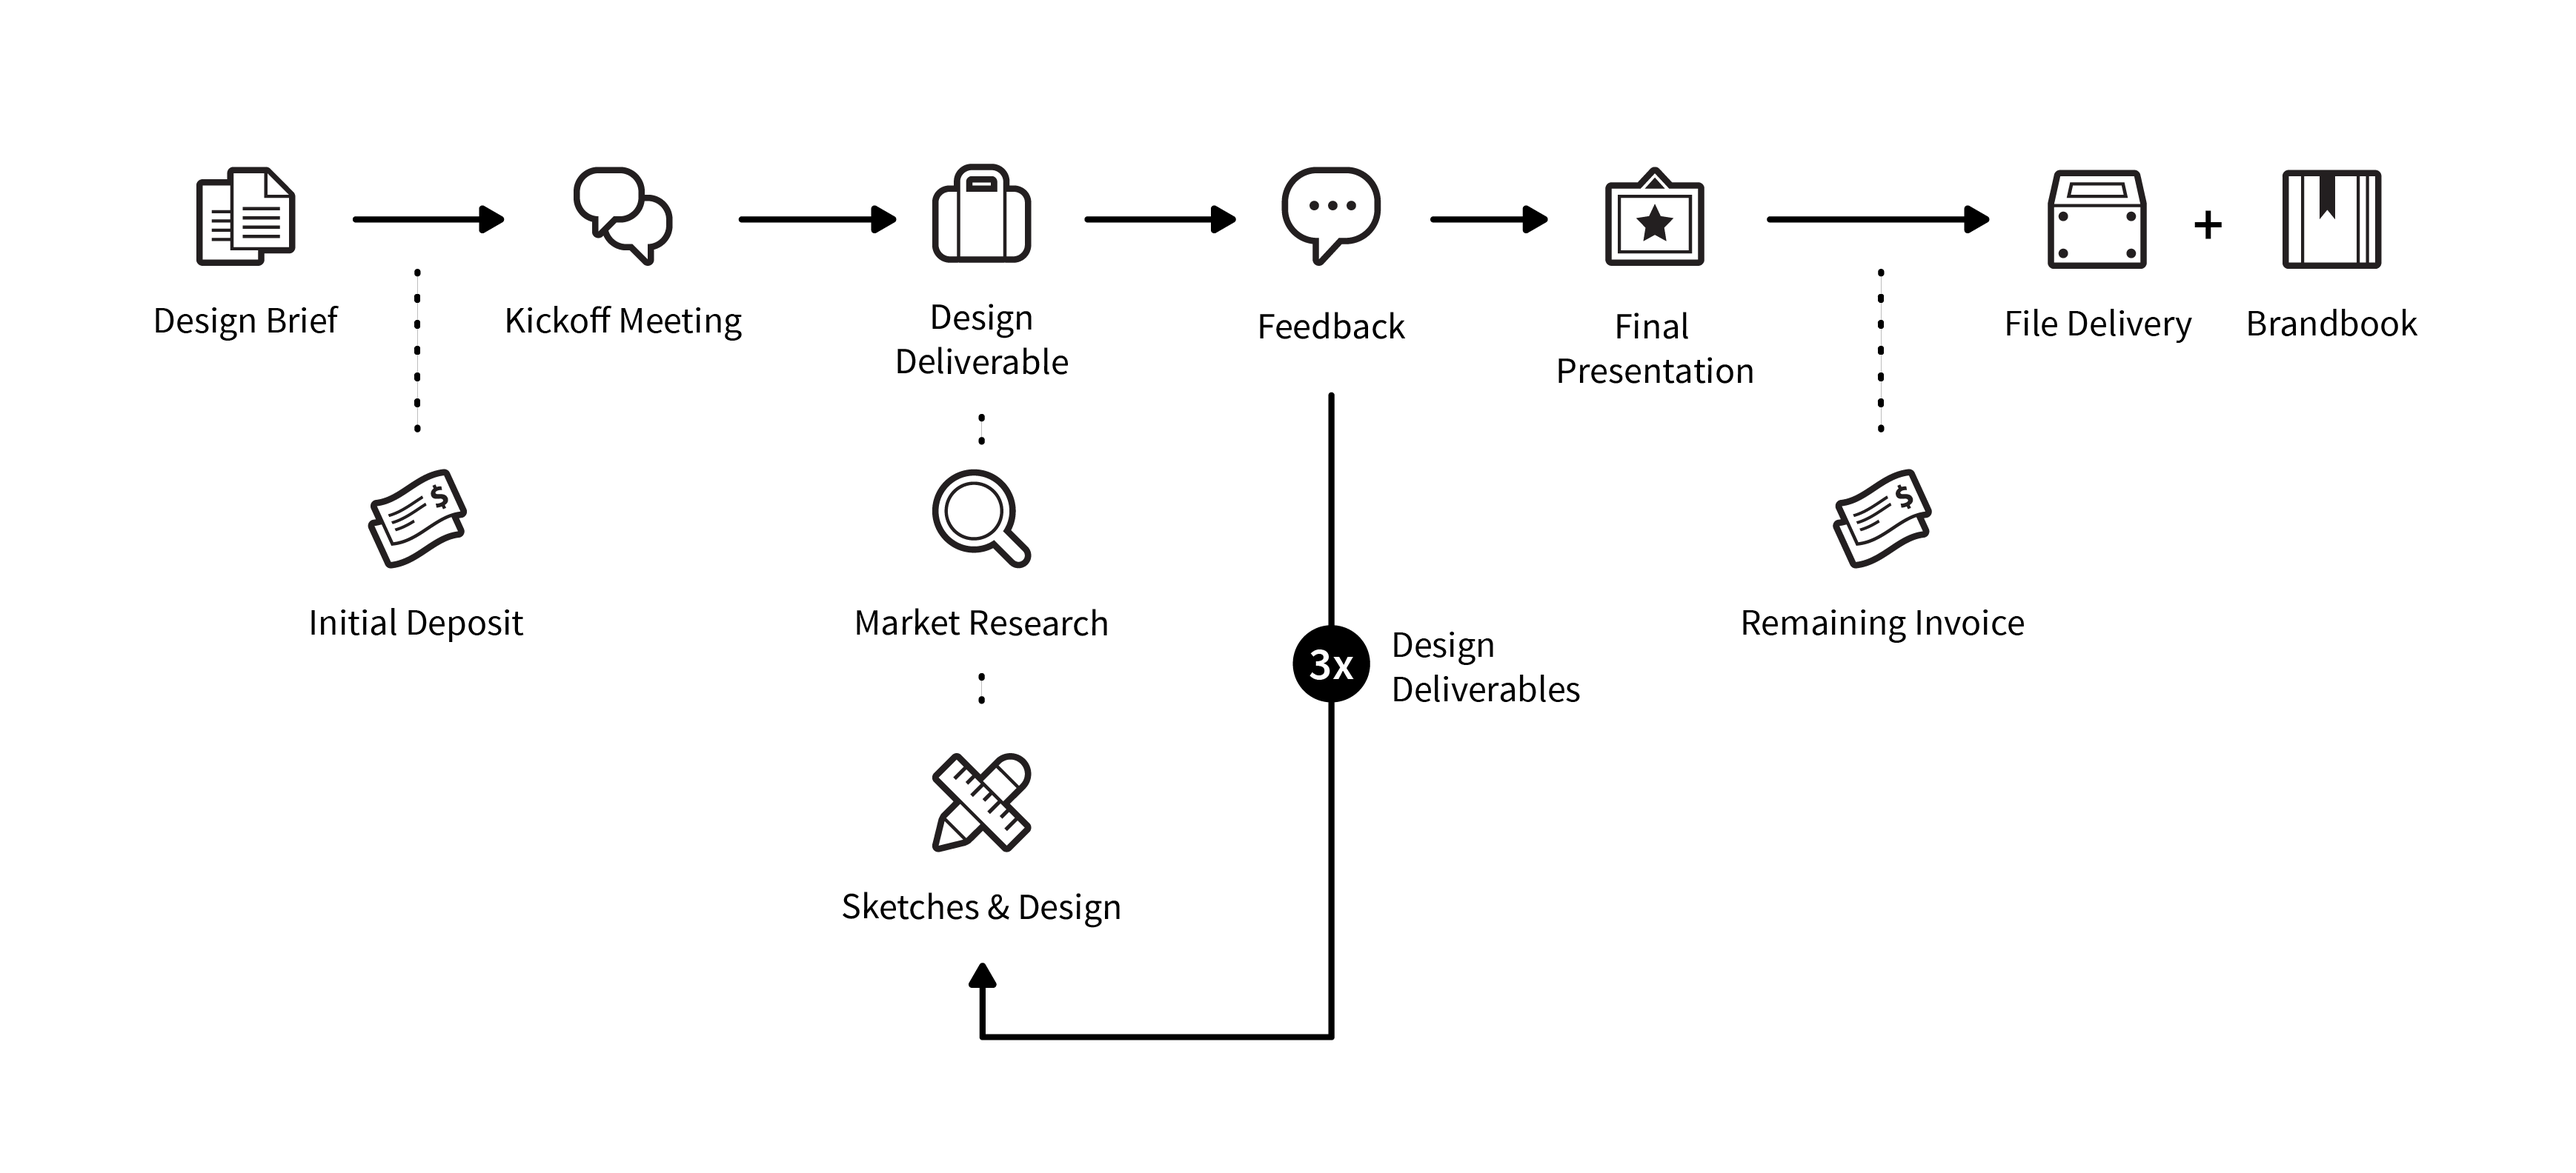
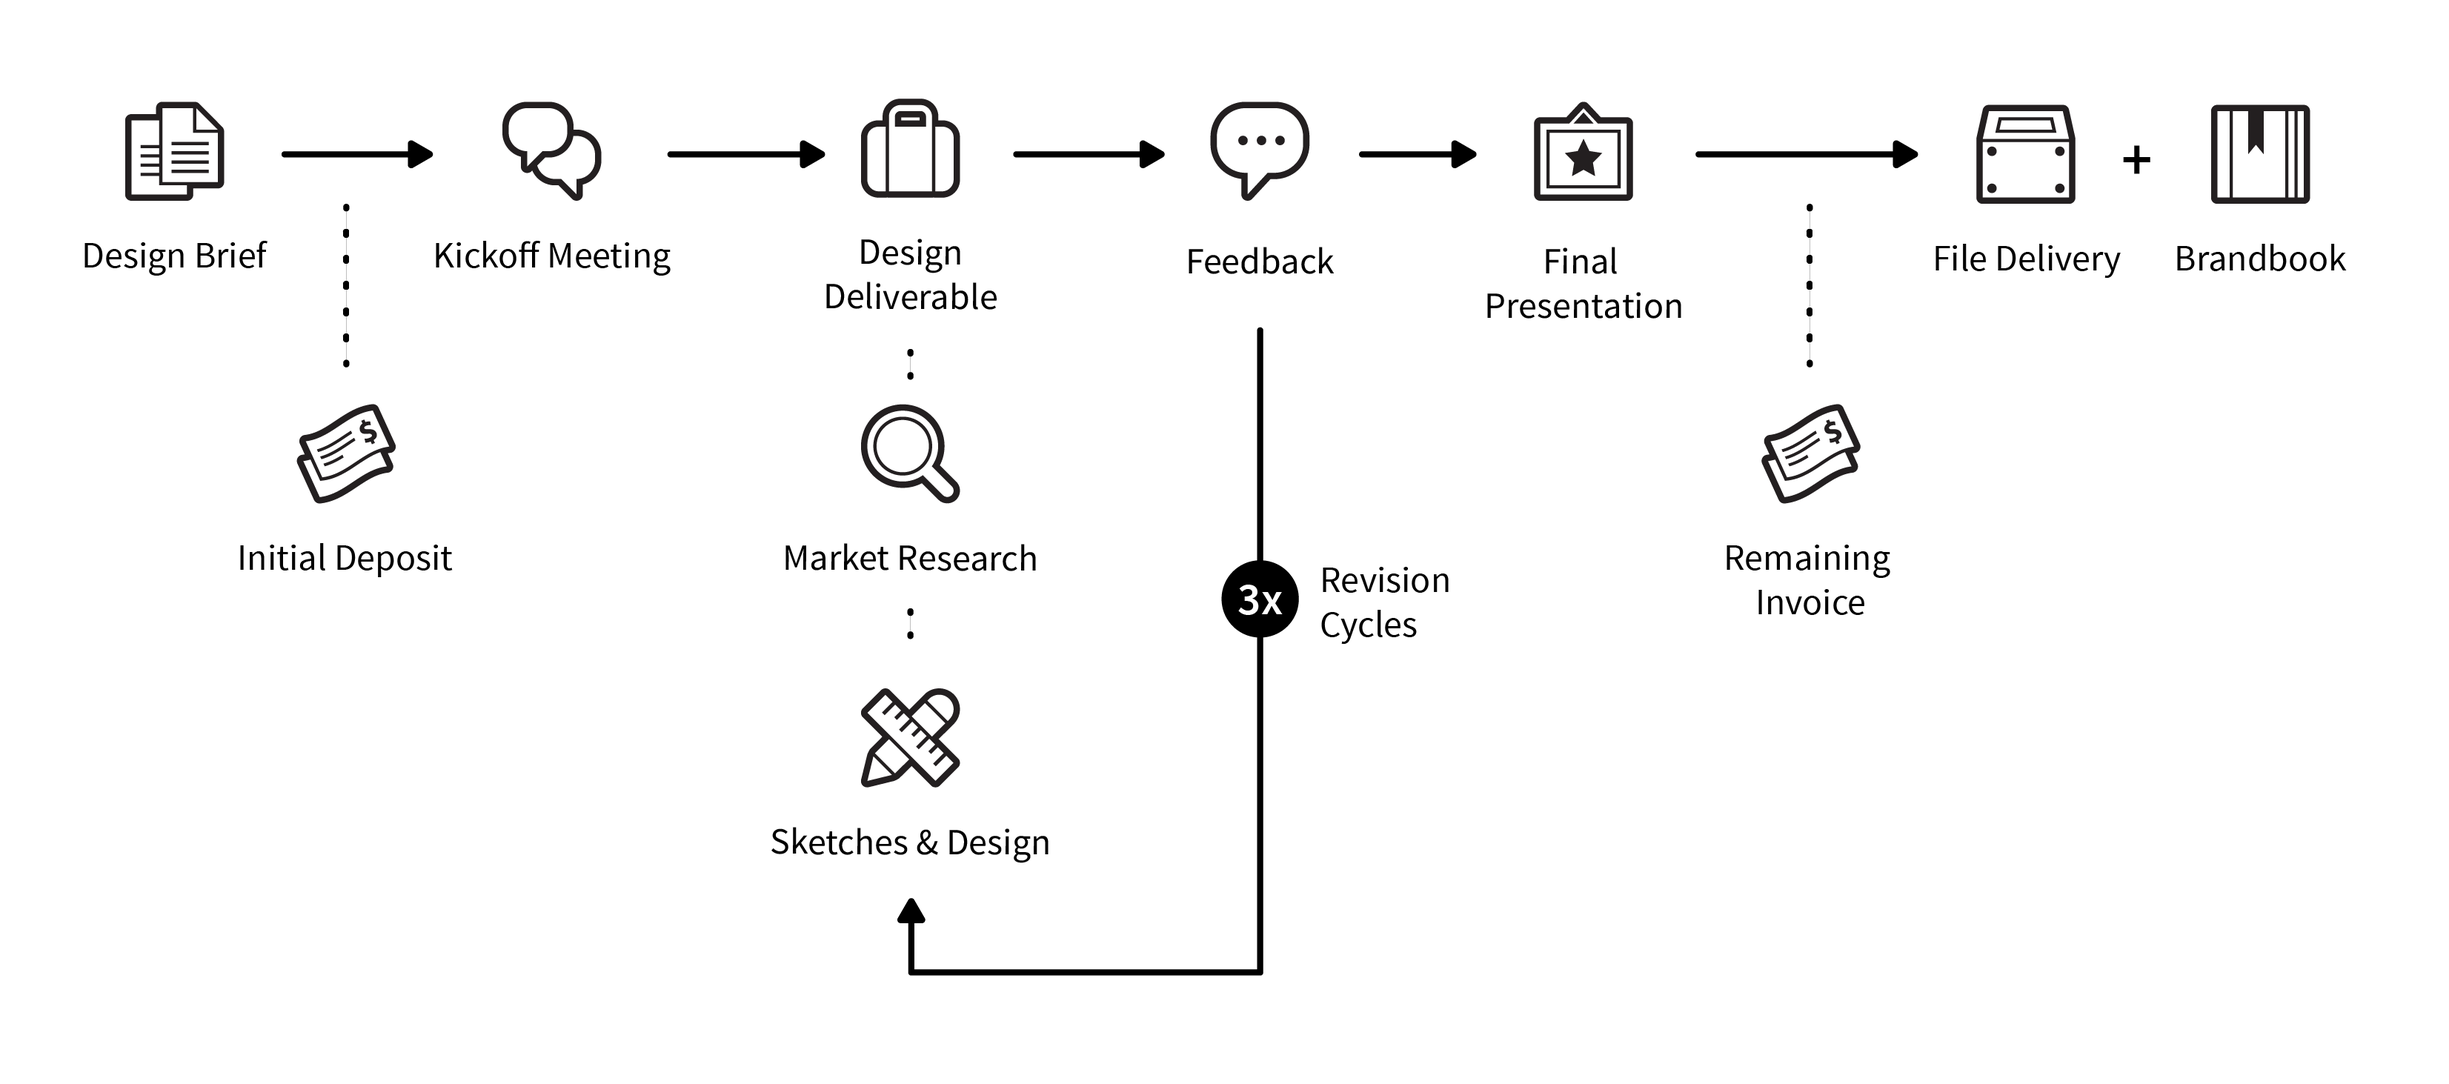
resized & updated illustrations, fixed broken links

diff --git a/1-TheCreativeBrief/special-requests.md b/1-TheCreativeBrief/special-requests.md
@@ -2,37 +2,39 @@
 
 Sometimes, clients have very specific requests. 
 
-### **Word Mark **
+### Word Mark 
 
-is a logo created entirely with text, usually the name of the company or brand, which is styled in a unique and memorable way. A great option for a new company or brand as the name is clearly stated.
+Logos created entirely with text, usually the name of the company or brand, which is styled in a unique and memorable way. A great option for a new company or brand as the name is clearly stated.
 
-![](/assets/90FC8E325CDC4AAB0E545F71AD19A8F4.jpg)
+![](/assets/word-mark.png)
 
-### **Letterform Mark** 
+### Letterform Mark 
 
-logos are constructed from single letter or initials that are relevant to the brand. This is popular for somewhat established brands with some customer recognition.
+Logos that are constructed from single letter or initials that are relevant to the brand. This is popular for somewhat established brands with some customer recognition.
 
-![](/assets/C8A28D9132E8CAACA1B6D3F99B046A36.jpg)
+![](/assets/letterform.png)
 
-### **Pictorial Mark**
+### Pictorial Mark
 
-designs are an easily recognisable image or icon which are a literal representation of the brand name or service.
+Designs that are an easily recognisable image or icon which are a literal representation of the brand name or service.
 
-### ![](/assets/F869F1EFE861C22EDA14C7A2BEE57446.jpg) Abstract Marks
+![](/assets/pictorial-mark.png) 
 
-embody general qualities, characteristics or values relevant to the brand. Sometimes these logos are not easily recognisable, but are useful to bring together several independent projects or divisions.
+### Abstract Marks
 
-![](/assets/E9CF6DB85FD55CE0E729238C9265F3DE.jpg)
+Embodies general qualities, characteristics or values relevant to the brand. Sometimes these logos are not easily recognisable, but are useful to bring together several independent projects or divisions.
 
-### **Emblems** 
+![](/assets/abstract-marks.png)
 
-are a combination of text and pictorial elements in one little neat package. A great statement piece!
+### Emblems 
 
-![](/assets/9A252925C5E9957F405A02C91796DD4B.jpg)
+A combination of text and pictorial elements in one little neat package. A great statement piece!
 
-### **Characters or Mascots**
+![](/assets/emblems.png)
+
+### Characters or Mascots
 
 are a good way to personify a brand or company. Animals or people are popular options. These usually appear in a range of marketing media including commercials and plush toys etc.
 
-![](/assets/684C171400DA7E16610D26F861925FB5.jpg)
+![](/assets/characters.png)
 

diff --git a/1-TheCreativeBrief/brand-personality.md b/1-TheCreativeBrief/brand-personality.md
@@ -12,9 +12,7 @@ b\) Are you modifying your customers?
 
 >People buy our product because, they are..  they want to be..
 
-
 ###Then complete the statements
-
 
 1\) Our customers want to become more &lt;adjective&gt;, &lt;adjective&gt; .. &lt;adjective&gt;
 
@@ -23,65 +21,37 @@ b\) Are you modifying your customers?
 3\) We want our customers to see out brand as &lt;adjective&gt;, &lt;adjective&gt; .. &lt;adjective&gt;  
 
 
-**Select One from each side :**
+###Select One from each side :###
 
-modern - classic
-
-masculine - feminine
-
-young - mature
-
-cozy - formal
-
-casual - elegant
-
-light - bold
-
-bright - dark
-
-fast - slow
-
-kind - strict
-
-  
+modern - classic |
+masculine - feminine |
+young - mature |
+cozy - formal |
+casual - elegant |
+light - bold |
+bright - dark |
+fast - slow |
+kind - strict |
 
 
-agile  perfectionist
-
-helpful - selfish
-
-sociable - reserved
-
-confident - shy
-
-communicative - observant
-
-extrovert - introvert
-
-peaceful - rebellious
-
-extradordinary - usual
-
-inspiring - bossy
-
-  
+agile  perfectionist |
+helpful - selfish |
+sociable - reserved |
+confident - shy |
+communicative - observant |
+extrovert - introvert |
+peaceful - rebellious |
+extradordinary - usual |
+inspiring - bossy |
 
 
-playful - serious
-
-affordable - expensive
-
-friendly - snobbish
-
-flexible - stubborn
-
-loud - quiet
-
-innovative - traditional
-
-spontaneous - predictable
-
-romantic - sexy
-
-imaginative - rational
+playful - serious |
+affordable - expensive |
+friendly - snobbish |
+flexible - stubborn |
+loud - quiet |
+innovative - traditional |
+spontaneous - predictable |
+romantic - sexy |
+imaginative - rational |
 

diff --git a/SUMMARY.md b/SUMMARY.md
@@ -3,10 +3,10 @@
 * [0 Starting The Kickoff](0-StartingTheKickoff/README.md)
 * [1 The Creative Brief](1-TheCreativeBrief/README.md)
     * [Brand Identity](1-TheCreativeBrief/brand-identity.md)
-    * [Brand Personality](1-TheCreativeBrief/brand-presonality.md)
-    * [Special Requests](1-TheCreativeBrief/sepcial-requests.md)
+    * [Brand Personality](1-TheCreativeBrief/brand-personality.md)
+    * [Special Requests](1-TheCreativeBrief/special-requests.md)
 * [2 The Design Scenarios](2-DesignScenarios/README.md)
     * [Creative Clients](2-DesignScenarios/creative-clients.md)
-    * [Vector Pushers](2-The-Design-Scenarios/vector-pushers.md)
+    * [Vector Pushers](2-DesignScenarios/vector-pushers.md)
 * [3 Design is a Job](3-DesignIsAJob/README.md)
 

diff --git a/2-DesignScenarios/README.md b/2-DesignScenarios/README.md
@@ -1,7 +1,7 @@
 # Design Scenarios
 Having branded multiple projects and companies has never been a smooth ride. You might think that following this guide with make you immune to it, but clients vary from one another and has different requirements, objectives, goals, characteristics and many more.
 
->“Can you draw my logo in 10 perpendicular lines with red & transparent ink? Also, can you draw it in a form of a kitten?” - Anonymous
+>“Can you draw my logo in 10 perpendicular lines with red & transparent ink? Also, can you draw it in a form of a kitten?” - A Nightmare Client
 
 
 In this section, we'll discuss some of the common pitfalls and scenarios that would happen incase things would not go exactly as planned.

diff --git a/1-TheCreativeBrief/brand-identity.md b/1-TheCreativeBrief/brand-identity.md
@@ -3,7 +3,7 @@
 ### Guidelines, Not Rules
 It is very important that these are not strict **rules** but rather, guidelines that would help you identify your client and define his brand.
 
->1. Who are you?
+1. Who are you?
 2. What do you do, and why?
 3. What do you promise your customers?
 4. What is your unique selling point? \(“We are the only company to [ _provide this service_ ] ")

diff --git a/1-TheCreativeBrief/README.md b/1-TheCreativeBrief/README.md
@@ -5,5 +5,5 @@ Welcome to our Branding Kickoff Meeting!
 
 This is what the creative brief is all about.
 
-![](/assets/how-to-get-a-logo-accepted-02.jpg)
+![](/assets/creative-brief-02.png)
 
